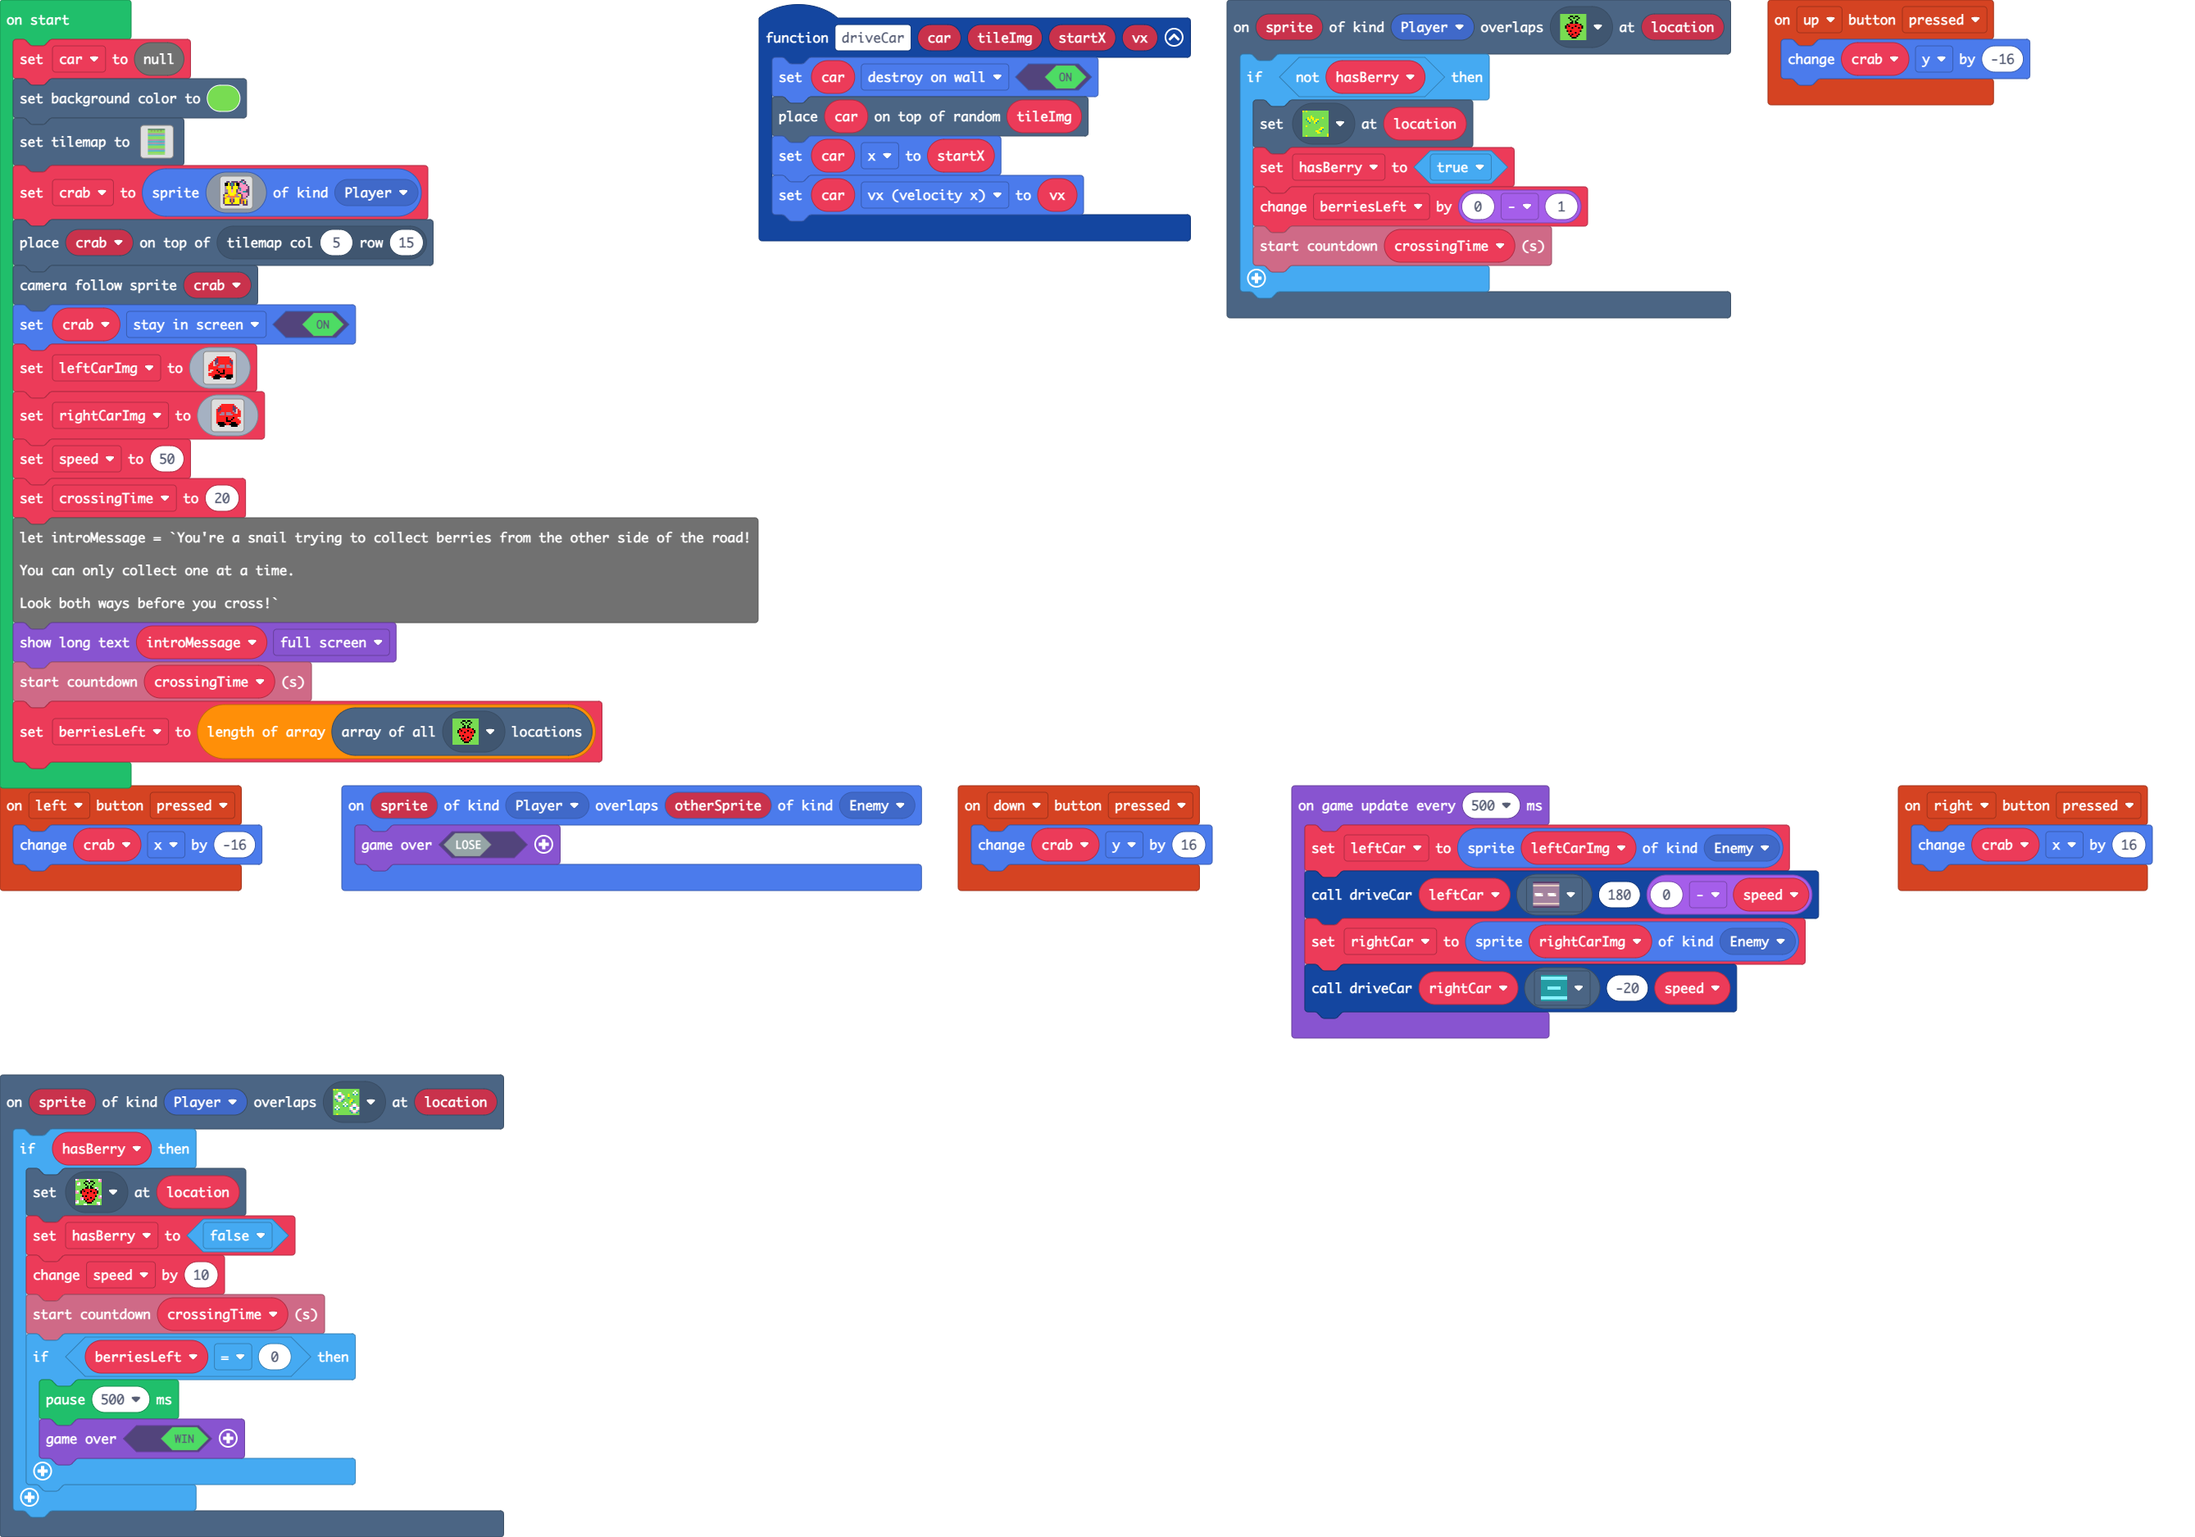
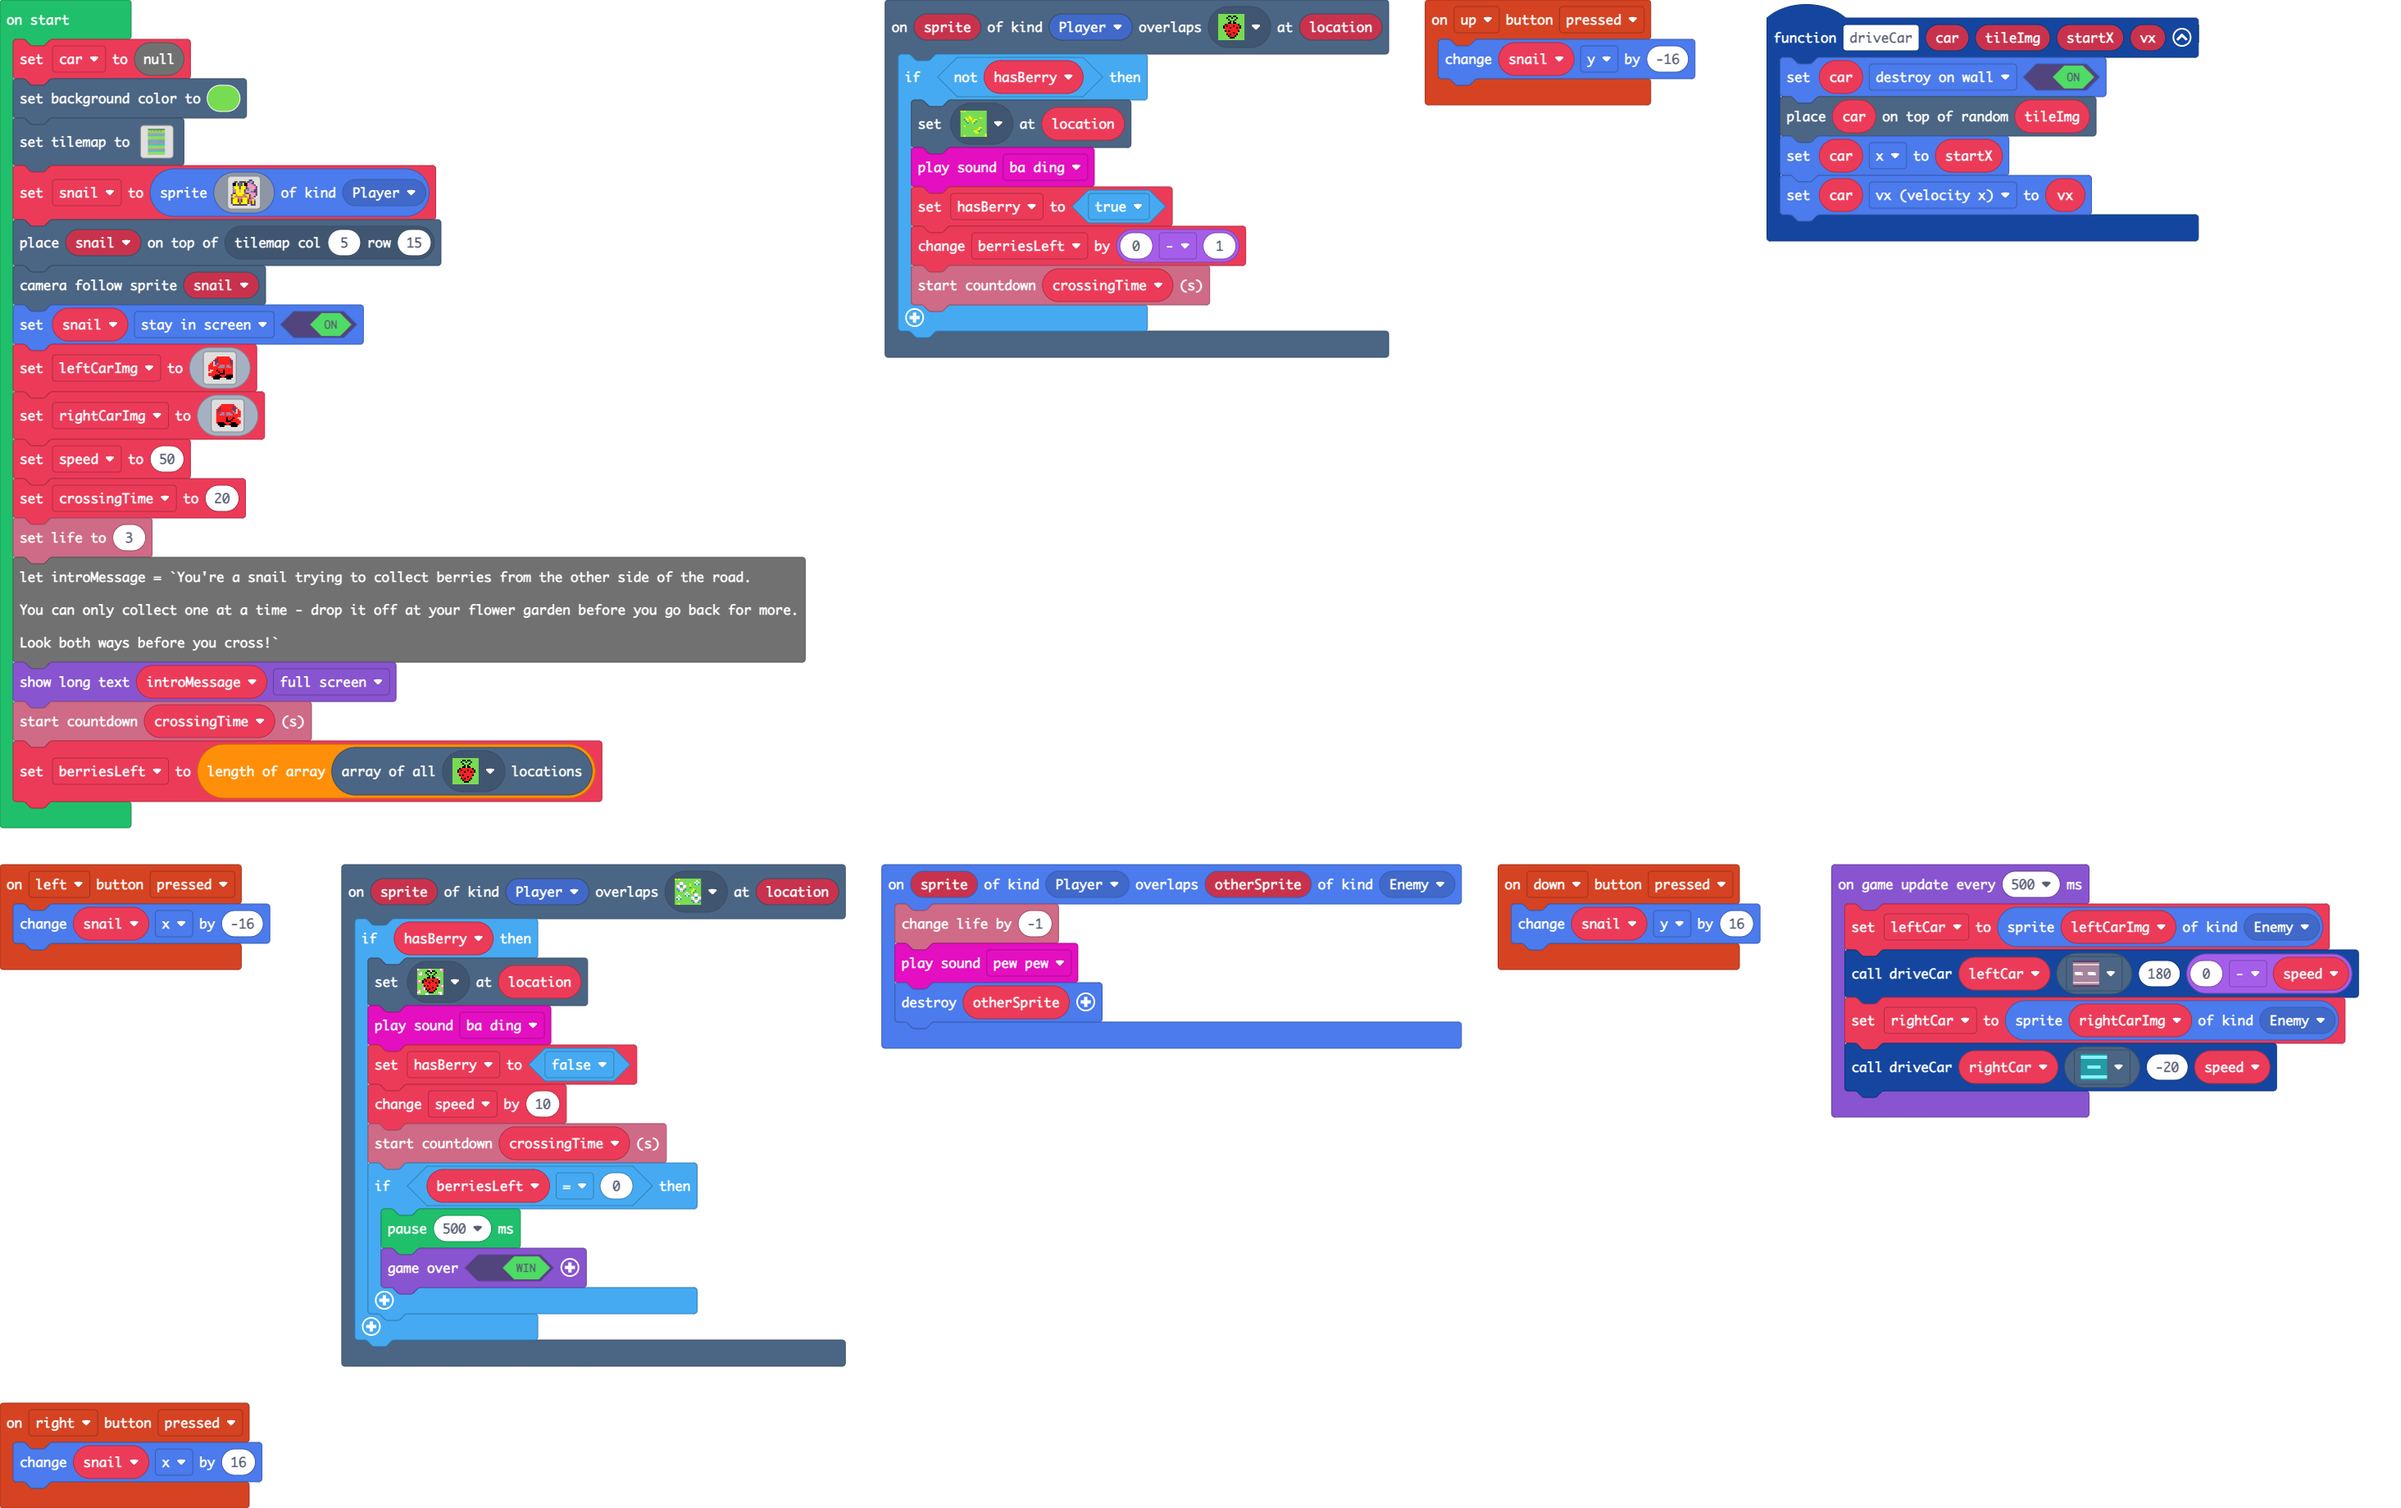
Update pxt.json, main.blocks, main.ts

diff --git a/main.ts b/main.ts
@@ -8,7 +8,7 @@ scene.onOverlapTile(SpriteKind.Player, myTiles.tile3, function (sprite, location
     }
 })
 controller.up.onEvent(ControllerButtonEvent.Pressed, function () {
-    crab.y += -16
+    snail.y += -16
 })
 function driveCar (car: Sprite, tileImg: Image, startX: number, vx: number) {
     car.setFlag(SpriteFlag.DestroyOnWall, true)
@@ -17,13 +17,13 @@ function driveCar (car: Sprite, tileImg: Image, startX: number, vx: number) {
     car.vx = vx
 }
 controller.left.onEvent(ControllerButtonEvent.Pressed, function () {
-    crab.x += -16
+    snail.x += -16
 })
 controller.right.onEvent(ControllerButtonEvent.Pressed, function () {
-    crab.x += 16
+    snail.x += 16
 })
 controller.down.onEvent(ControllerButtonEvent.Pressed, function () {
-    crab.y += 16
+    snail.y += 16
 })
 scene.onOverlapTile(SpriteKind.Player, sprites.castle.tileGrass2, function (sprite, location) {
     if (hasBerry) {
@@ -48,11 +48,11 @@ let leftCar: Sprite = null
 let hasBerry = false
 let berriesLeft = 0
 let crossingTime = 0
-let crab: Sprite = null
+let snail: Sprite = null
 let car = null
 scene.setBackgroundColor(7)
 tiles.setTilemap(tilemap`level`)
-crab = sprites.create(img`
+snail = sprites.create(img`
     . . . . . . . . . . . c c . . . 
     . . c c . c c c c 3 c 6 3 c . . 
     . f f 5 c 6 c 5 f f 3 3 6 c . . 
@@ -70,9 +70,9 @@ crab = sprites.create(img`
     c 5 5 5 5 c 5 5 5 5 c 4 c 5 c . 
     . c c c c c c c c c . . c c c . 
     `, SpriteKind.Player)
-tiles.placeOnTile(crab, tiles.getTileLocation(5, 15))
-scene.cameraFollowSprite(crab)
-crab.setFlag(SpriteFlag.StayInScreen, true)
+tiles.placeOnTile(snail, tiles.getTileLocation(5, 15))
+scene.cameraFollowSprite(snail)
+snail.setFlag(SpriteFlag.StayInScreen, true)
 let leftCarImg = img`
     . . . . . . . . . . . . . . . . 
     . . . . . . 2 2 2 2 2 2 2 2 . . 
